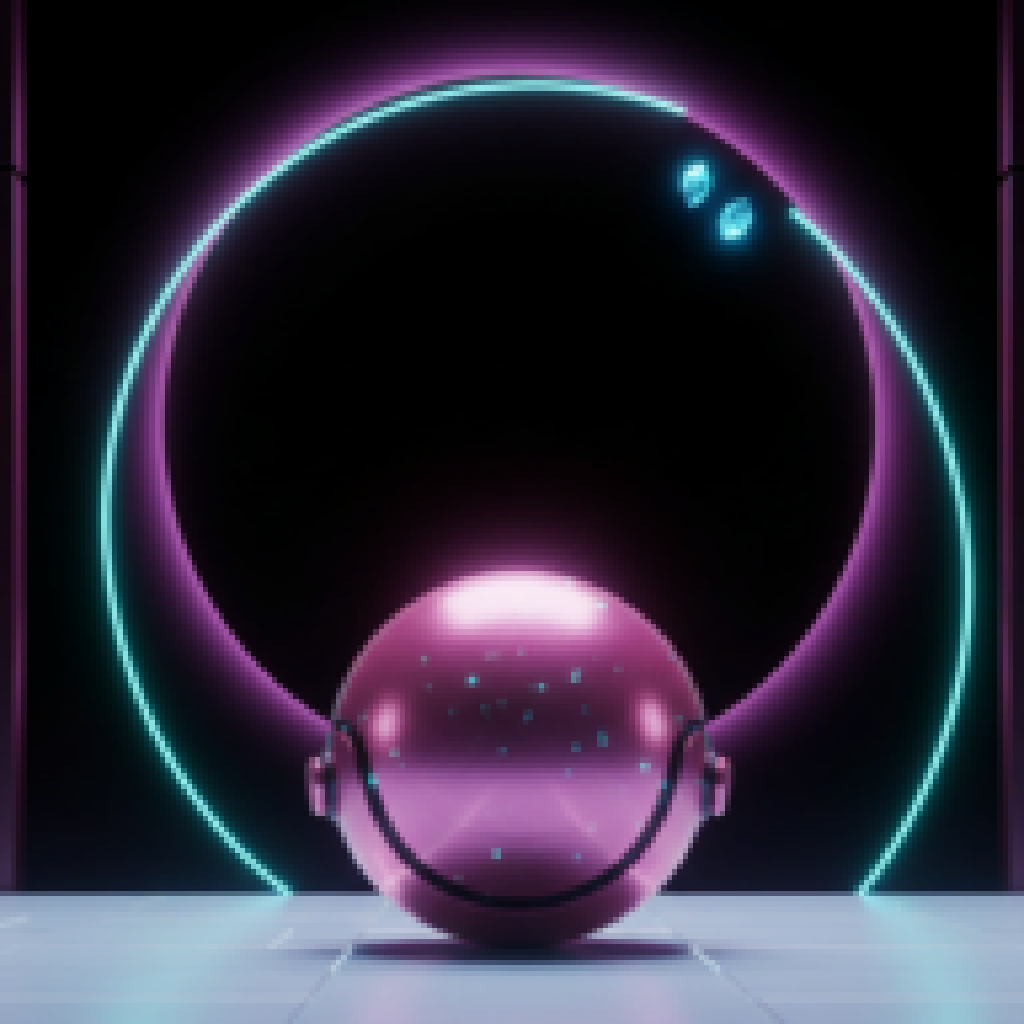
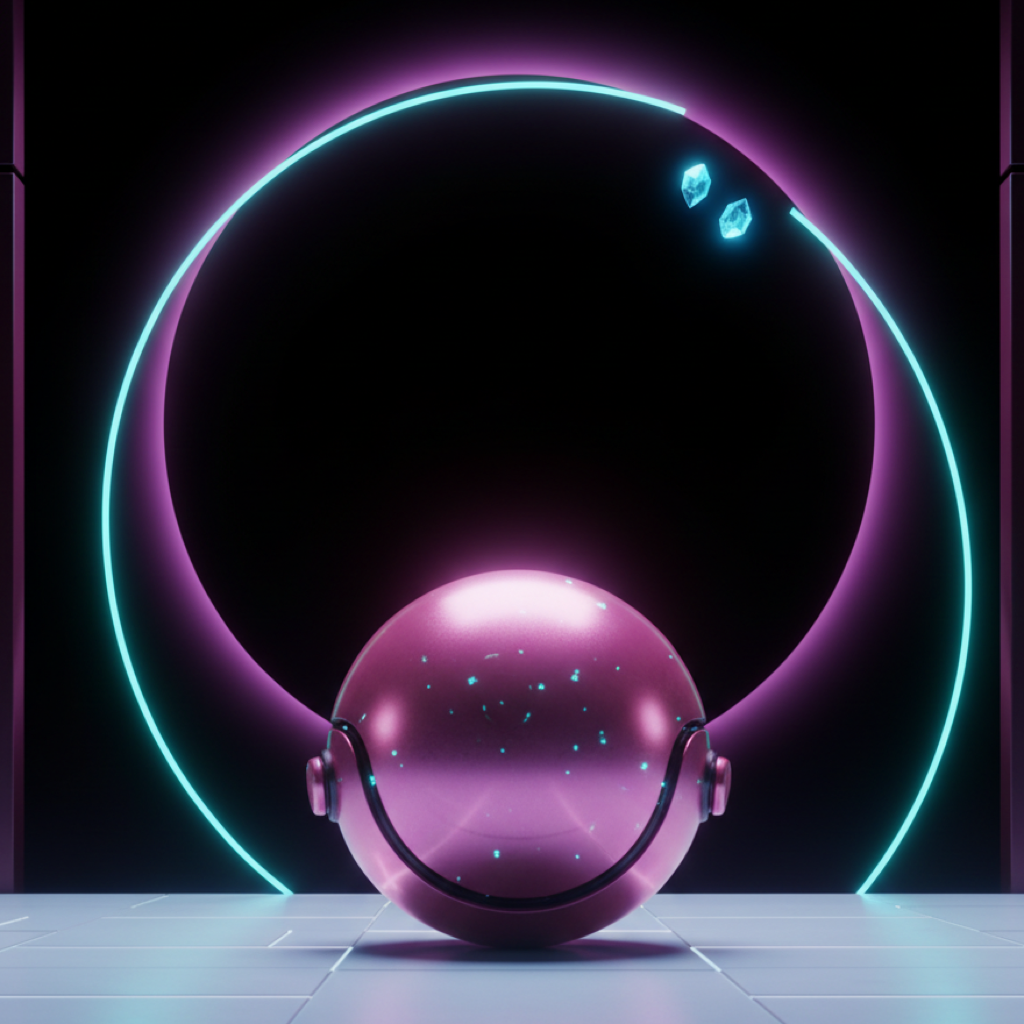
Round 5 图标精确还原：从原版 git HEAD 提取 1024×1024 原始源图
- AppIcon.png 改用 git show HEAD:Assets/AppIcon/AppIcon.png
  提取的原始 1024×1024 图，替代上轮 NEAREST 放大版本
- aapt 解出 EN APK 全部 6 个尺寸图标（36/48/72/96/144/192 px）
  与原版 APK 同名文件逐像素比对，全部 max_diff=0，完全一致
- PlayerSettings m_BuildTargetPlatformIcons 及 AppIcon.png.meta
  与原版工程完全一致（GUID df83bb05…）
- EN_DELIVERY.md §7 更新 SHA-256 (c12401eb…) 和大小
- 已 install -r 至 emulator-5554，两包均在

diff --git a/Localization/EN_DELIVERY.md b/Localization/EN_DELIVERY.md
@@ -116,8 +116,8 @@
 | 目标路径 | `Builds/EN/QuantumEcho-EN-PICO.apk` |
 | Unity | 6000.5.5f1 batchmode (含图形上下文，支持 RenderTexture 截图) |
 | 状态 | **已完成**（日志：`Builds/EN/build4.log`） |
[1 lines of base64/hex data omitted]
-| APK 大小 | 76,890,063 字节（73.3 MB） |
[1 lines of base64/hex data omitted]
+| APK 大小 | 76,889,807 字节（73.3 MB） |
 
 ### 返工内容（总控核查后修订，2026-10-22）
 
